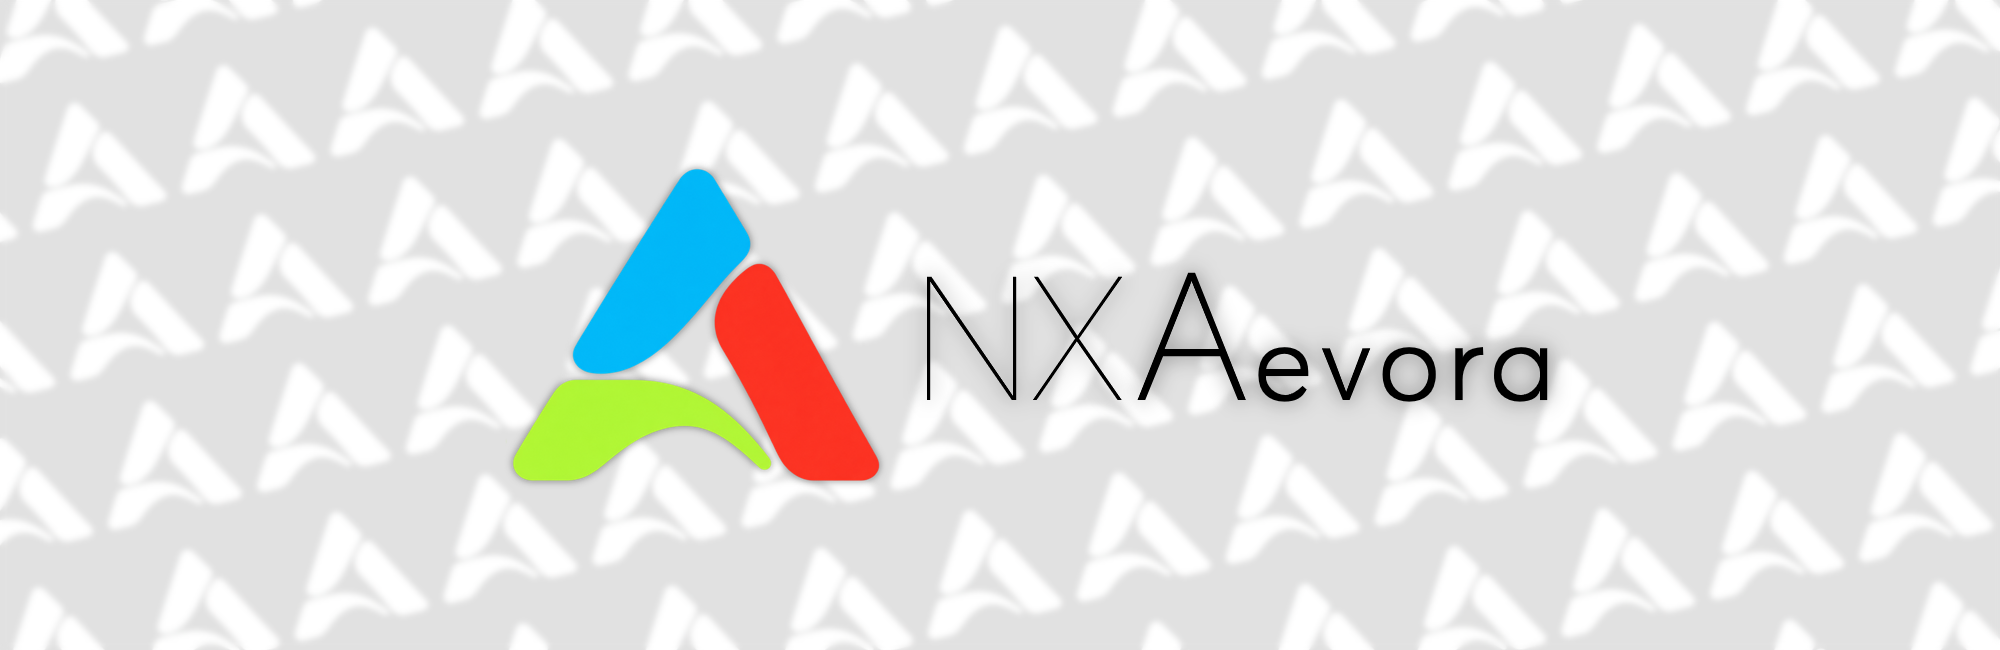
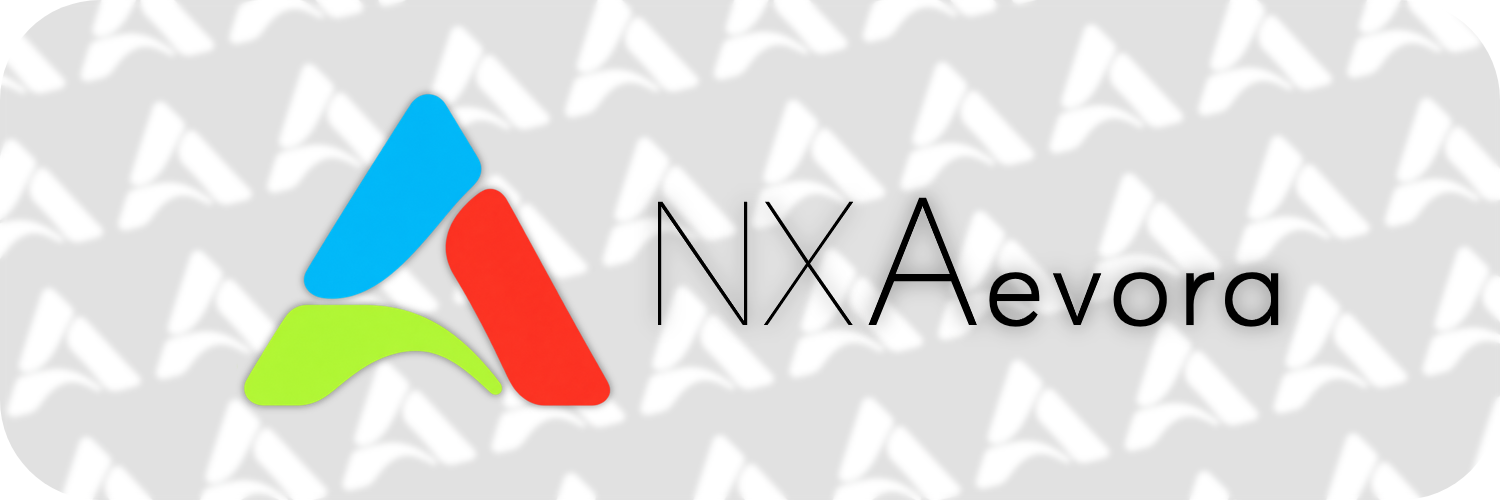
Update the README introduction and add the build badge
The introduction and the note on AI-assisted coding are rewritten. A new note
says that later releases will take the game as decrypted RomFS and ExeFS
instead of NSP files, and the requirements say that these details can change.
The README now shows the status of the Windows build on main, and the banner
is refreshed.

diff --git a/README.md b/README.md
@@ -3,16 +3,21 @@
 <!-- Copyright 2026 the NXAevora contributors -->
 
 <img alt="aevora-icon" src="assets/nxaevora-banner.png"><br>
+<a href="https://github.com/nxaevora/nxaevora-main/actions/workflows/ci.yml"><img src="https://github.com/nxaevora/nxaevora-main/actions/workflows/ci.yml/badge.svg?branch=main" alt="Build NXAevora (Windows)"></a>
 <img src="https://img.shields.io/badge/Platform-Windows%20x64-blue?style=flat" alt="Platform: Windows x64">
 <img src="https://img.shields.io/badge/Status-work%20in%20progress%20(alpha%20stage)-orange?style=flat" alt="Status: work in progress (alpha stage)">
 <img src="https://img.shields.io/badge/License-GPL--3.0%20(v3)-lightgrey?style=flat" alt="License: GPL-3.0 (v3)">
 
-NXAevora is a project to run Pokemon Legends Arceus natively on a Windows PC. The code of the game is translated
-ahead of time from ARM64 to x86-64 with the static recompiler <a href="https://github.com/scarletnx/ScarletNX">ScarletNX</a>.
-NXAevora adds the settings, game code patches, runtime changes and tools that are specific to this game, and a launcher is planned.
+NXAevora is a project aimed at running **Pokémon Legends: Arceus** fully natively.<br>
+The game's code is compiled using <a href="https://github.com/scarletnx/ScarletNX">ScarletNX</a>, a static compiler, while NXAevora provides a wide range of modifications, including the framework for native execution, runtime modifications, patches to the game's code, and a dedicated launcher.
 
 > [!IMPORTANT]
-> At Aevora, we utilize AI-powered coding (including so-called "vibe coding"). Our development is guided by human review and real-world testing, prioritizing code that is easy for humans to understand and maintain. We do not consider AI-generated code or successful compilation alone to be proof that the game is functioning correctly.
+> Aevora incorporates AI-assisted coding, commonly referred to as "vibe coding," into its development process.<br>
+>We place a strong emphasis on human review and testing in real-world environments, prioritizing code that is easy for humans to understand and maintain. We do not consider the game to be functioning correctly simply because the code was generated by AI or because it compiles successfully.
+
+> [!NOTE]
+> For upcoming beta releases and the official release, users will be required to provide the game files and update data in an already decrypted format (**RomFS and ExeFS**), rather than as NSP files.<br>
+> <strong>We do not condone the use of illegally distributed copies with this project under any circumstances.</strong> You must use copies obtained and prepared from your own legally acquired game.
 
 ## Status
 
@@ -60,8 +65,8 @@ The list of the changes in the runtime is in [docs/build/runtime-changes.md](doc
 
 - Windows 11 x64.
 - A GPU and a driver with Vulkan 1.3.
-- Your own copy of the game, dumped from your own console, with the update. NXAevora accepts NSP and XCI files.
-- The keys of your console (`prod.keys`, and `title.keys` for NSP files), dumped from your own console.
+- Your own copy of the game, dumped from your own console, with the update. NXAevora accepts NSP and XCI files. <br>(These details are subject to change as development plans evolve)
+- The keys of your console (`prod.keys`, and `title.keys` for NSP files), dumped from your own console.<br>(These details are subject to change as development plans evolve)
 
 NXAevora contains no game files and no keys. Do not ask for them and do not share them.
 
